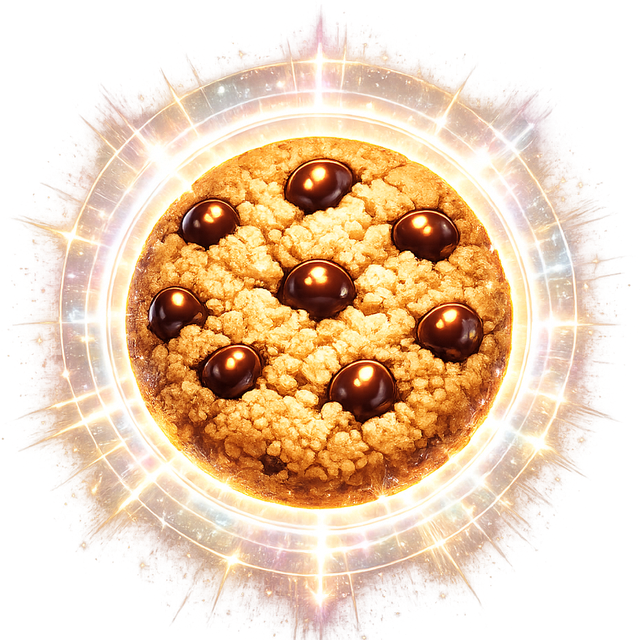
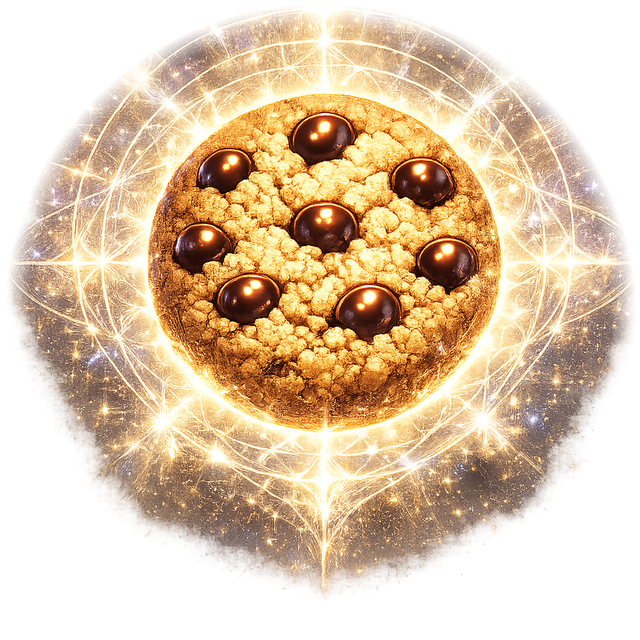
Tier 10: unique cookie art (replace t9 copy) + cache bump v=96
Replace the placeholder cookie_t10.png (a byte copy of t9) with the designer's new
golden-aura art. Processed through the same pipeline (alpha-bbox crop, chip-centred,
640^2, optimize); this source's aura is large relative to the cookie, so scaled the
cookie to match the t8 tier and radially feathered the aura's alpha to 0 at the
frame edge (no hard square artifact). Bump the image's own inline ?v in style.css
(cookie_t10.png?v=69 -> 96) plus index.html css+js and GAME_URL so the new art
actually reaches cached clients.

diff --git a/push/src/index.js b/push/src/index.js
@@ -16,7 +16,7 @@
 // (and thus the freshly-versioned css/js). Bump this to the current frontend
 // version on every deploy that must reach players immediately. Must also be
 // updated in BotFather's Menu Button URL (that launch path bypasses the worker).
-const GAME_URL = 'https://mscherbin.github.io/cookie-clicker-tma/?v=95';
+const GAME_URL = 'https://mscherbin.github.io/cookie-clicker-tma/?v=96';
 const BOT_USERNAME = 'bestcookieclickerbot'; // for the /go redirect deep link
 const CHANNEL_LINK = 'https://t.me/bestcookieclicker'; // our announcements channel
 // Must match game.js's OFFLINE_FULL_RATE_SECONDS / OFFLINE_RATE / computeOfflineGain.

diff --git a/index.html b/index.html
@@ -4,7 +4,7 @@
 <meta charset="UTF-8" />
 <meta name="viewport" content="width=device-width, initial-scale=1.0, maximum-scale=1.0, user-scalable=no, viewport-fit=cover" />
 <title>Cookie Clicker TMA</title>
-<link rel="stylesheet" href="style.css?v=95" />
+<link rel="stylesheet" href="style.css?v=96" />
 <script src="https://telegram.org/js/telegram-web-app.js"></script>
 <script src="https://sad.adsgram.ai/js/sad.min.js"></script>
 </head>
@@ -259,6 +259,6 @@
   </div>
 </div>
 
-<script src="game.js?v=95"></script>
+<script src="game.js?v=96"></script>
 </body>
 </html>

diff --git a/style.css b/style.css
@@ -1768,4 +1768,4 @@ body[data-tier="5"] .cookie-svg { background-image: url('assets/cookie_t6.png?v=
 body[data-tier="6"] .cookie-svg { background-image: url('assets/cookie_t7.png?v=69'); }
 body[data-tier="7"] .cookie-svg { background-image: url('assets/cookie_t8.png?v=69'); }
 body[data-tier="8"] .cookie-svg { background-image: url('assets/cookie_t9.png?v=69'); }
-body[data-tier="9"] .cookie-svg { background-image: url('assets/cookie_t10.png?v=69'); }
+body[data-tier="9"] .cookie-svg { background-image: url('assets/cookie_t10.png?v=96'); }

diff --git a/ОТЧЕТ_ЗАДАЧИ.md b/ОТЧЕТ_ЗАДАЧИ.md
@@ -173,6 +173,7 @@
 | L1 | Гонка (потеря денег): ветка `upgrade_skip` в `handleSuccessfulPayment` дописывала id в `paid_unlocked_upgrades` через read-modify-write → два конкурентных вебхука одного юзера (разные апгрейды) затирали друг друга → юзер заплатил, апгрейд не выдан | Заменено на один атомарный `UPDATE ... CASE ... INSTR(...)` (SQLite сериализует однооператорные UPDATE строки; дедуп через delimited `INSTR`, а не `LIKE` из-за `_` в id). Прогнан в sqlite3 (null/дубль/`click_u4` vs `click_u40`). Только воркер, редеплой (`Version caa6194c`) | ✅ Готово, задеплоено |
 | #40 | **Ретеншен и стикинес аналитика (LTV/CAC, приоритет высокий).** Два admin-эндпоинта на существующих `users`+`events` (без миграции). `/retention?cohort=YYYY-MM-DD\|all` → кривая day-N (d1..d30), Dn=null для незрелых когорт (pooled — per-N зрелый знаменатель). `/stickiness?period=` → per-user `return_days` (уник. активные дни после дня 0: avg + repeat_rate + бакеты) И `sessions` (серии `app_open`, разрез паузой >30мин через оконную `LAG` — НЕ сырые чекины). Оба уважают `source` + опц. `country` (гео). Проверено: sessions коллапс ×21 на проде (4903→234), SQL-тесты + юнит-тесты (12/12 AC), смоук. `/funnel`/`d1_return` не тронуты. Деплой `Version 8ab9ab4d`, только воркер | 03.08 | ✅ Готово, задеплоено |
 | #40a | **Фикс «растущей» кривой `/retention?cohort=all`** (артефакт выжившей подвыборки: Dn считался на всё меньшей старой группе, база не видна → d3=0.5 на 4 тестерах вводило в заблуждение). Для `cohort=all` теперь `dN={rate, base}`, где base = сколько дожило до дня N (сжимается с ростом N → тонкая база сразу видна); rate = size-weighted блендинг; base=0→rate=null. `cohort=YYYY-MM-DD` не изменился (честная кривая одной когорты). Дока: cohort=all = blended-снимок. Проверено на проде (оба формата). Деплой `Version eefbd4bb` | 03.08 | ✅ Готово, задеплоено |
+| #45 | **Уникальная картинка тира 10 (`cookie_t10.png`).** Раньше t10 — байт-копия t9 (заглушка). Обработал новый арт дизайнера тем же пайплайном (Pillow/numpy: alpha-bbox кроп → нормализация размера → центр по каплям → 640² → optimize). У исходника аура крупная относительно печеньки → подобрал масштаб визуально (s=0.68 под t8-размер) + радиальный feather ауры (alpha→0 к краю, без жёсткого квадрата). Проверено монтажом vs t6/t8/t9 + в игре. **NB:** у tier-картинок в `style.css` СВОЙ inline `?v=` — бампнул `cookie_t10.png?v=69→96` (иначе замена не дойдёт до юзеров). Фронт `v=96`, воркер `7d28dde0` | 05.08 | ✅ Готово, задеплоено |
 | #43 | **Активационный пуш сегмента 2 — динамический текст.** Расширение Task #39: пуш «клик без покупки» теперь называет число печенек и зовёт купить первое ЗДАНИЕ (`push.nudgeHasCookies` «У тебя {n} печенек — купи первое здание…» при `totalBaked>=15`, у cps=0 сегмента cookies==totalBaked), иначе фолбэк «Вернись и купи первое улучшение». Сегментация/дедуп/замена стадий не менялись, RU/EN через `pt()`. Юнит-тест 5/5. Воркер `55562779` | 05.08 | ✅ Готово, задеплоено |
 | #44 | **Диагностика: доходят ли пуши до FB-когорты (retention 88% one-and-done).** Добавлен `GET /admin/push-audit` (кросс-реф D1-source × KV-pushStage × push_nudges) + логирование ошибок доставки в `sendPush`. **Вывод: НЕ техническая проблема** — по keitaro (58): все в push-цикле (`not_in_kv=0`), 56/58 с bot_start (доставимы), отправлено **112 пушей** (88 stage + 24 nudge, ~2/юзер). Пуши доходят → низкий retention = контент/сегментация (приоритет на #43). Воркер `55562779` | 05.08 | ✅ Готово, задеплоено |
 | #42 | **Лидерборд по стране («Моя страна»).** Переиспользует уже трекаемое гео (`cf.country`), без нового источника. Чекин пишет `country` в KV-метадату (из D1 first-touch `users.country`); `computeLeaderboard` кладёт `country` в entry; `handleLeaderboard` по initData отдаёт в ТОМ ЖЕ вызове `country`+`countryEntries` (топ-50 по стране, сохраняя глоб. сортировку)+`countrySelf`. Клиент: тумблер «🌍 Все / 🇵🇭 Моя страна» (флаг из ISO-2), рендер из сохранённого ответа без повторного запроса; тумблер скрыт без гео. Проверено в браузере (global 50 → страна 3 PH → назад 50, не ломается). Фронт `v=95`, воркер `242e691a` | 05.08 | ✅ Готово, задеплоено |
